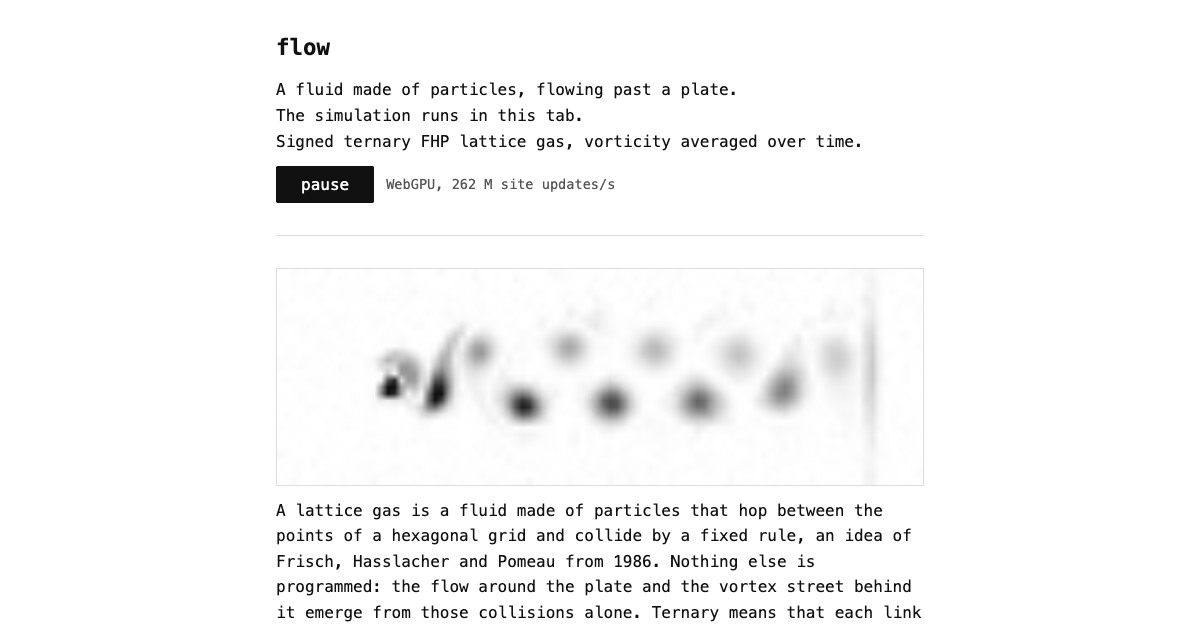
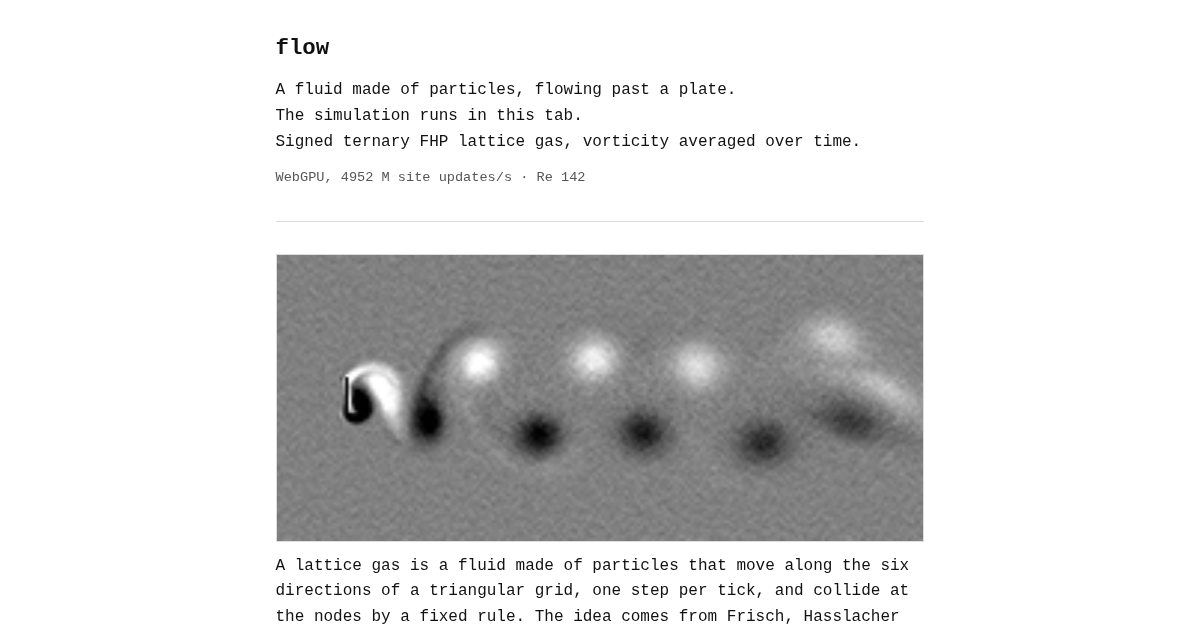
flow: regenerate the preview card from the current page with the street formed; og:image v3

Changed region(s): [[0.2158, 0.3921, 0.7708, 0.9952], [0.2158, 0.1206, 0.7092, 0.3317], [0.2158, 0.0603, 0.2775, 0.0905]]

diff --git a/flow/index.html b/flow/index.html
@@ -8,7 +8,7 @@
   <meta name="description" content="A lattice gas flowing past a plate in your browser: a von Karman vortex street from particles and collision rules alone.">
   <meta property="og:title" content="flow · trucs.ai">
   <meta property="og:description" content="A fluid made of particles moving on a triangular grid, flowing past a plate. The vortex street behind it emerges from the collision rules alone, computed in your browser.">
-  <meta property="og:image" content="https://trucs.ai/assets/og/flow.png?v=2">
+  <meta property="og:image" content="https://trucs.ai/assets/og/flow.png?v=3">
   <meta property="og:url" content="https://trucs.ai/flow/">
   <meta property="og:type" content="website">
   <meta name="twitter:card" content="summary_large_image">
